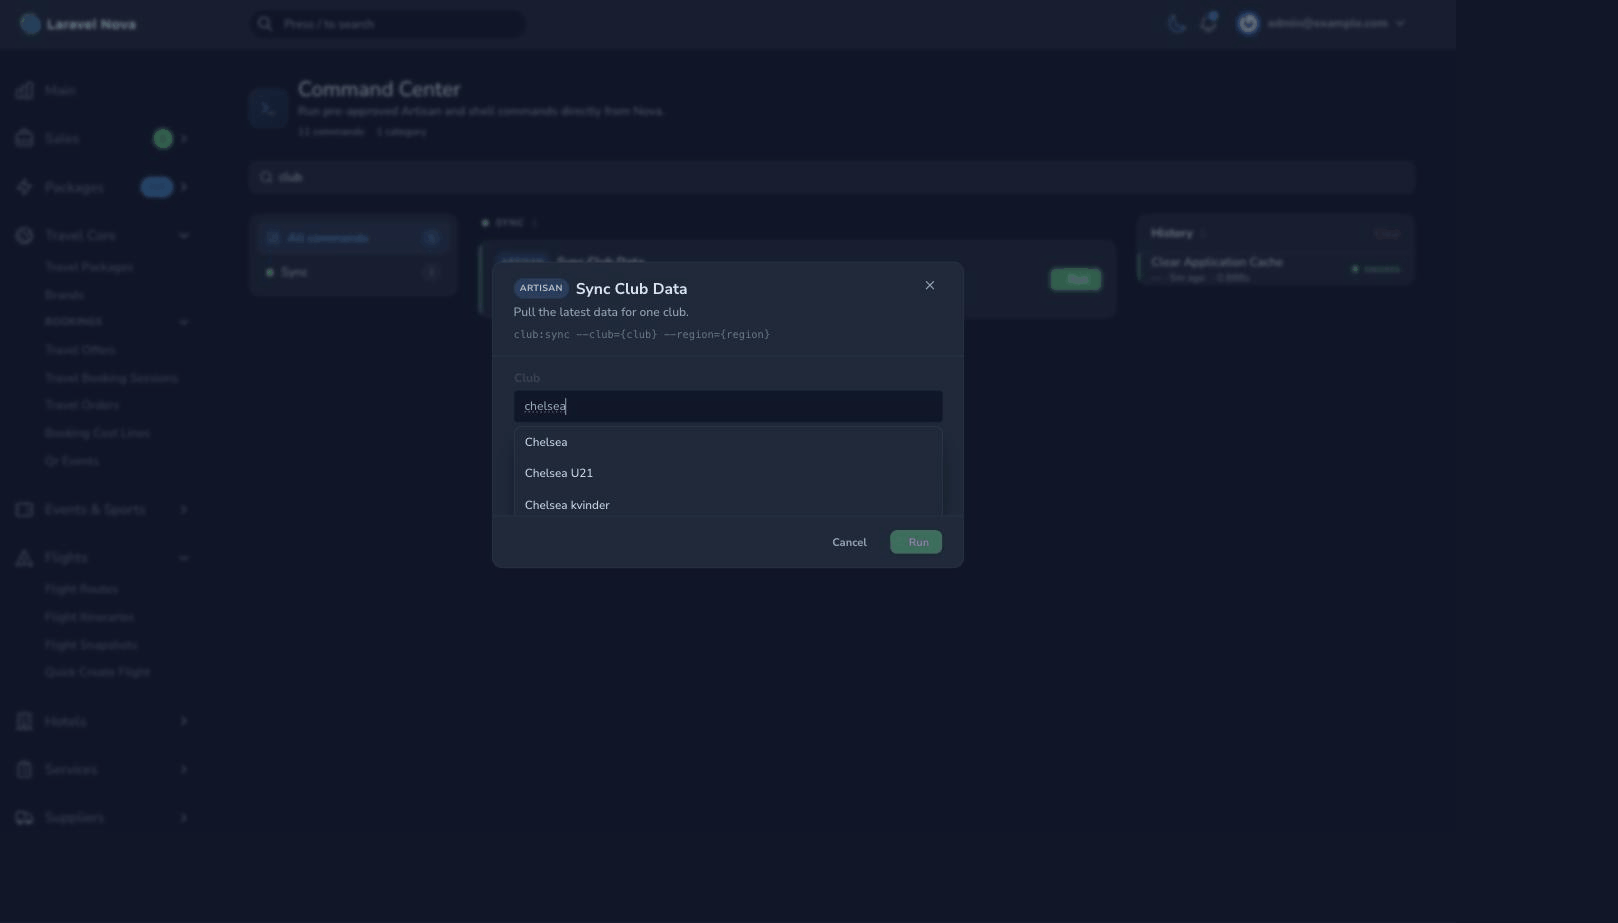
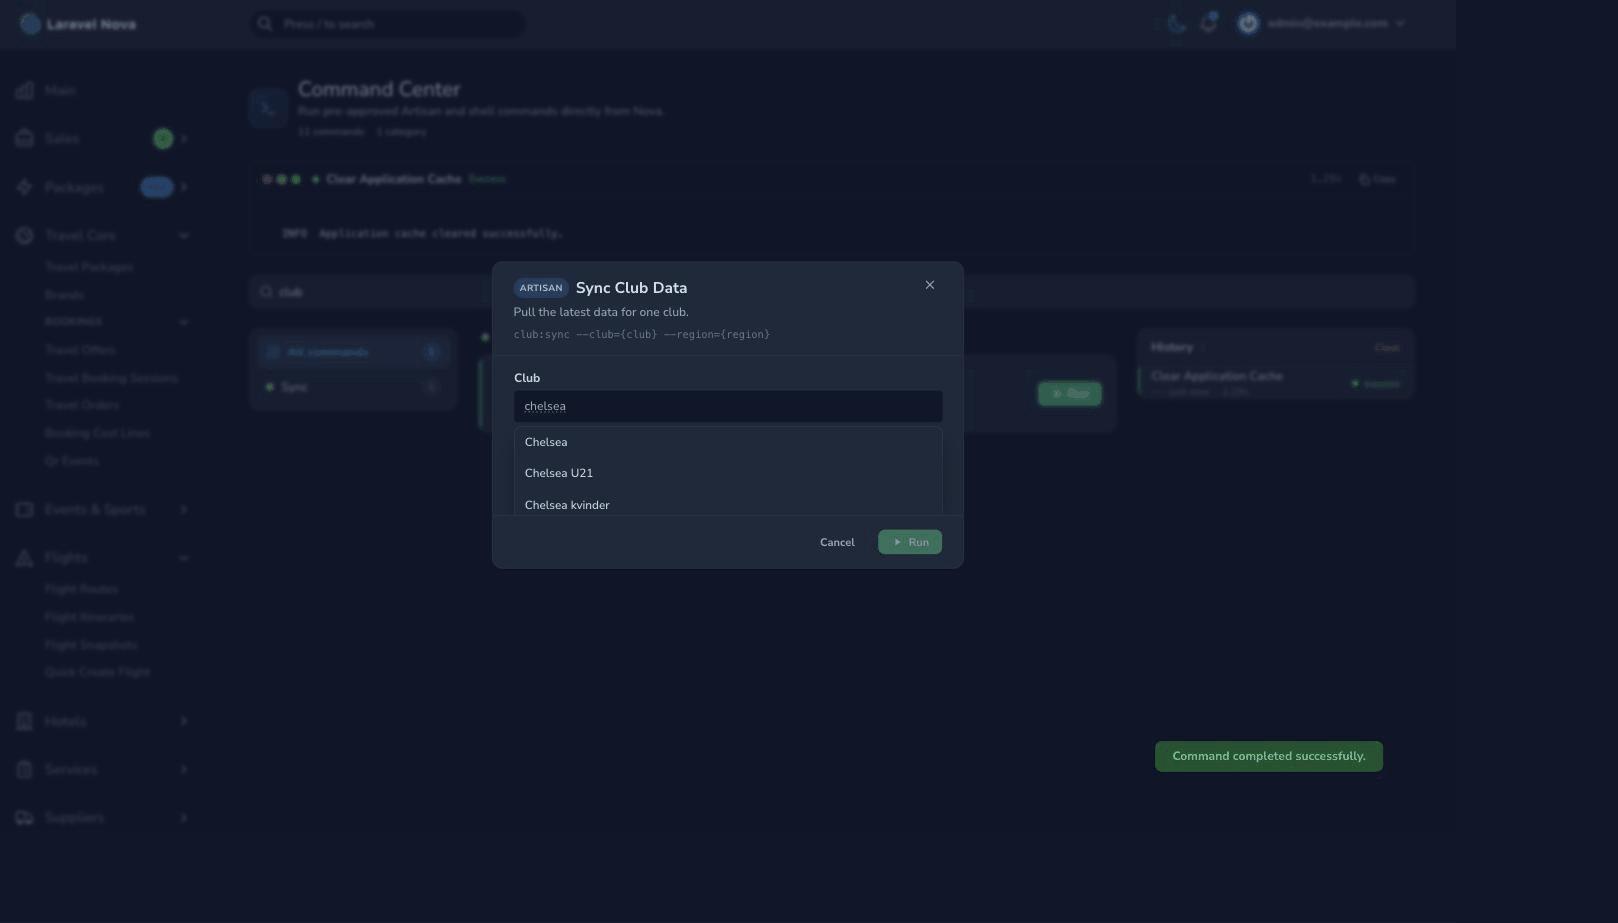
Refresh docs and screenshots for the theme-safe UI
The frontend guide described colours as coming from Tailwind dark:
variants in the templates; they now live entirely in the package
stylesheet, and the guide explains why (purged host builds). Document
the required-select placeholder behaviour and guard-aware attribution,
and retake the command-center and model-search screenshots plus the
demo GIF, which predated the icon and contrast fixes.

diff --git a/docs/frontend.md b/docs/frontend.md
@@ -32,21 +32,27 @@ whenever you change anything under `resources/`.
 ## Dark mode
 
 The tool follows Nova's light/dark switch automatically. Nova toggles a `.dark`
-class on the `<html>` element; the templates use Tailwind `dark:` variants for
-layout colours, and `resources/css/tool.css` mirrors every custom component
-(buttons, console, cards, badges, progress, modal) with `.dark` rules. There is
-nothing to configure — switch the Nova theme and the tool follows.
+class on the `<html>` element, and every colour in
+`resources/css/tool.css` — components, text, borders, hover states — carries a
+matching `.dark` rule. There is nothing to configure — switch the Nova theme
+and the tool follows.
 
 ## Theming
 
-Colours come from two places:
+All colours, icon sizes and other visual styling live in the package's own
+stylesheet, `resources/css/tool.css`, under `.ncr-*` classes. The templates
+deliberately use **no Tailwind colour or sizing utilities**: the host app
+ships a purged Tailwind build, and which utility classes survive the purge
+(especially `dark:` variants and fractional sizes like `w-3.5`) depends
+entirely on what that app and its other packages happen to use. Relying on
+them would make the tool's contrast a per-host lottery — invisible dark-mode
+labels in one app, missing icons in another. Only structural utilities that
+Nova's own UI guarantees (flex, spacing, font sizes) appear in templates.
 
-- **Nova's Tailwind utilities** in the templates keep the tool visually
-  consistent with the host panel.
-- **`resources/css/tool.css`** holds the self-contained pieces. Button and
-  progress accents use the `--primary` CSS variable Nova exposes, so they adopt
-  your panel's primary colour. Override any `.ncr-*` class in your own Nova
-  stylesheet to restyle.
+Button and progress accents use the `--primary` CSS variable Nova exposes, so
+they adopt your panel's primary colour. Override any `.ncr-*` class in your
+own Nova stylesheet to restyle — e.g. the text scale (`.ncr-text-muted`,
+`.ncr-label`, …), card chrome (`.ncr-card`), or the console.
 
 Button styles map to the command `type` (`primary`, `success`, `warning`,
 `danger`, `info`, `secondary`, `link`) via `.ncr-btn-{type}` classes.

diff --git a/docs/configuration.md b/docs/configuration.md
@@ -16,7 +16,7 @@ php artisan vendor:publish --tag=nova-command-center-config
 | `history` | int | `15` | Number of recent executions to keep (cache-backed). `0` disables history. |
 | `cache_store` | string\|null | `null` | Cache store for history, live output and locks. `null` uses the app default. A lock-capable store (redis, memcached, database) is required for `without_overlapping`. |
 | `authorize` | string\|null | `'runCommand'` | Gate ability checked on every request. `null` relies solely on the tool's `canSee()`. See [authorization](authorization.md). |
-| `rate_limit` | int\|null | `30` | Max executions per authenticated user per minute. `null` disables it. |
+| `rate_limit` | int\|null | `30` | Max executions per authenticated user per minute. `null` disables it. The user — for the limit key and for History's "ran by" attribution — is resolved through Nova's configured guard (`nova.guard`), so panels on a non-default guard attribute correctly. |
 | `bash` | array | disabled | Shell command settings — see below. |
 | `custom_commands` | list | `[]` | Command types operators may type ad-hoc. Empty = off. |
 | `searchable_models` | list | `[]` | Eloquent model classes allowed to back a `model` variable. Empty = no model variable can be searched. See [Searchable model variables](#searchable-model-variables). |
@@ -106,6 +106,11 @@ the command is tokenised, so a value is always a single argument.
 
 Shorthand forms are accepted: `'variables' => ['key', 'value']` (a list of
 names) or `'key' => 'Label'` (name → label).
+
+A required `select` with no `default` renders with a disabled *"Choose an
+option…"* placeholder, and the Run button stays disabled until every required
+variable has a value. An optional `select` gets an explicit empty ("—")
+choice instead.
 
 ### Searchable model variables
 